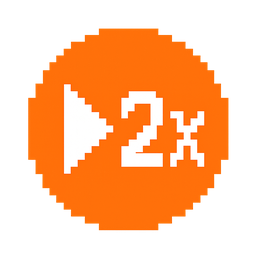
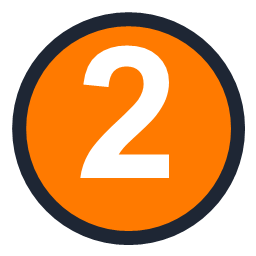
次に適用する速度が見えるアイコンに変更

diff --git a/background.js b/background.js
@@ -1,5 +1,27 @@
 const tabPlaybackRateMap = new Map();
 
+function setNextSpeedIcon(tabId, rate) {
+  const is15x = rate === 1.5;
+  const suffix = is15x ? '-15' : '';
+
+  browser.browserAction.setIcon({
+    tabId,
+    path: {
+      16: `icon-16${suffix}.png`,
+      32: `icon-32${suffix}.png`,
+      48: `icon-48${suffix}.png`,
+      64: `icon-64${suffix}.png`,
+      96: `icon-96${suffix}.png`,
+      128: `icon-128${suffix}.png`,
+      256: `icon-256${suffix}.png`
+    }
+  });
+  browser.browserAction.setTitle({
+    tabId,
+    title: is15x ? '次に押すと1.5倍' : '次に押すと2倍'
+  });
+}
+
 browser.browserAction.onClicked.addListener((tab) => {
   const current = tabPlaybackRateMap.get(tab.id);
   const target = current === undefined ? 2.0 : (current === 2.0 ? 1.5 : 2.0);
@@ -8,46 +30,37 @@ browser.browserAction.onClicked.addListener((tab) => {
     code: `
       (() => {
         const rate = ${target};
-        const applyRate = (video) => {
-          if (video.playbackRate !== rate) video.playbackRate = rate;
-        };
+        let state = window.__videoSpeedBooster;
 
-        document.querySelectorAll('video').forEach(applyRate);
-
-        if (!window.__videoSpeedBooster) {
-          const observer = new MutationObserver((mutations) => {
+        if (!state) {
+          state = {
+            rate,
+            applyRate(video) {
+              if (video.playbackRate !== state.rate) video.playbackRate = state.rate;
+            }
+          };
+          state.observer = new MutationObserver((mutations) => {
             for (const mutation of mutations) {
               for (const node of mutation.addedNodes) {
-                if (node instanceof HTMLVideoElement) applyRate(node);
-                else if (node.querySelectorAll) node.querySelectorAll('video').forEach(applyRate);
+                if (node instanceof HTMLVideoElement) state.applyRate(node);
+                else if (node.querySelectorAll) node.querySelectorAll('video').forEach(state.applyRate);
               }
             }
           });
-          observer.observe(document.documentElement, { childList: true, subtree: true });
-          window.__videoSpeedBooster = { observer, rate };
+          state.observer.observe(document.documentElement, { childList: true, subtree: true });
+          window.__videoSpeedBooster = state;
         } else {
-          window.__videoSpeedBooster.rate = rate;
+          state.rate = rate;
         }
 
-        const state = window.__videoSpeedBooster;
-        state.applyRate = applyRate;
-        state.observer.disconnect();
-        state.observer = new MutationObserver((mutations) => {
-          for (const mutation of mutations) {
-            for (const node of mutation.addedNodes) {
-              if (node instanceof HTMLVideoElement) applyRate(node);
-              else if (node.querySelectorAll) node.querySelectorAll('video').forEach(applyRate);
-            }
-          }
-        });
-        state.observer.observe(document.documentElement, { childList: true, subtree: true });
-        document.querySelectorAll('video').forEach(applyRate);
+        document.querySelectorAll('video').forEach(state.applyRate);
       })();
     `,
     allFrames: true
   });
 
   tabPlaybackRateMap.set(tab.id, target);
+  setNextSpeedIcon(tab.id, target === 2.0 ? 1.5 : 2.0);
 });
 
 browser.tabs.onRemoved.addListener((tabId) => {
@@ -57,5 +70,6 @@ browser.tabs.onRemoved.addListener((tabId) => {
 browser.tabs.onUpdated.addListener((tabId, changeInfo) => {
   if (changeInfo.status === 'loading') {
     tabPlaybackRateMap.delete(tabId);
+    setNextSpeedIcon(tabId, 2.0);
   }
 });
